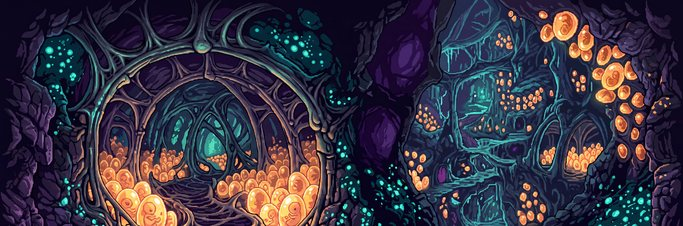
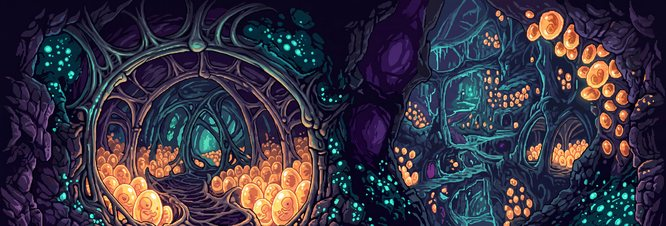
Stage select; fix Marina, Hatchery and Codebreak floors
- Lobby START opens a 4x3 stage select of the 12 Arcade stages; the run
  starts from the chosen stage. Guests see which stage the host is on.
- Thin floor bands (Marina pier, Hatchery ledge) are stacked into a deck
  instead of stretched; Codebreak gets a circuit-board floor from its shaft.

Claude-Session: https://claude.ai/code/session_01Cvrxa8cyQ4xMxVbh4qEa49

diff --git a/public/js/main.js b/public/js/main.js
@@ -9,7 +9,7 @@ const STEP = 1000 / 60;
 const app = {
   screen: 'loading', role: 'local', net: null, myId: 0, code: '', msg: '', msgT: 0,
   slots: [], sim: null, snap: null, prevSnap: null, snapAt: 0, snapGap: 33,
-  menu: 0, remoteIn: {}, guestNames: {}, lobbyDirty: true, paused: false, acc: 0, last: 0, sendTick: 0, pendingEv: [], t: 0,
+  menu: 0, stageSel: 0, remoteIn: {}, guestNames: {}, lobbyDirty: true, paused: false, acc: 0, last: 0, sendTick: 0, pendingEv: [], t: 0,
 };
 function defaultSlots() {
   return Array.from({ length: 6 }, (_, i) => ({ ctrl: 'cpu', owner: 0, dev: '', fid: i % M.fighters.length, weapon: i }));
@@ -84,7 +84,7 @@ function joinOnline(code, name) {
 function onGuestMessage(m) {
   if (m.t === 'joined') { app.myId = m.id; toast('Joined room ' + m.code + ' — press ATTACK to take a slot'); }
   else if (m.t === 'error') { toast(m.error); app.role = 'local'; app.screen = 'title'; app.net && app.net.close(); }
-  else if (m.t === 'lobby') { app.slots = m.slots; app.screen = 'lobby'; }
+  else if (m.t === 'lobby') { app.slots = m.slots; app.screen = 'lobby'; app.hostChoosing = m.choosing ? m.sel : null; }
   else if (m.t === 'snap') {
     app.prevSnap = app.snap; app.snap = m.s; const now = performance.now();
     app.snapGap = app.snapAt ? Math.min(100, Math.max(16, now - app.snapAt)) : 33; app.snapAt = now;
@@ -94,14 +94,14 @@ function onGuestMessage(m) {
 }
 function broadcastLobby() {
   if (app.role !== 'host' || !app.net || !app.net.open) return;
-  app.net.send({ t: 'lobby', slots: app.slots, code: app.code });
+  app.net.send({ t: 'lobby', slots: app.slots, code: app.code, choosing: app.screen === 'stages', sel: app.stageSel });
   app.lobbyDirty = false;
 }
 
 // ---------- game start / step ----------
 function startGame() {
   const cfg = app.slots.map((s, i) => ({ fid: s.fid, weapon: s.weapon, ctrl: s.ctrl, owner: s.owner, name: fname(s.fid) }));
-  app.sim = S.create(cfg, (Math.random() * 2 ** 31) | 0);
+  app.sim = S.create(cfg, (Math.random() * 2 ** 31) | 0, app.stageSel);
   app.screen = 'game'; app.paused = false; app.acc = 0;
   M.bosses.forEach((b, i) => { if (i < 2) R.bossImages(i); });
 }
@@ -150,8 +150,16 @@ function localDevicesInput() {
           if (p.u || p.d) cycle(i, 'weapon', p.d ? 1 : -1);
           if (p.j) releaseSlot(i);
         }
-        if (p.start) { startGame(); return; }
+        if (p.start) { app.screen = 'stages'; app.msgT = 0; app.lobbyDirty = true; A.play('menu'); return; }
       }
+    } else if (app.screen === 'stages') {
+      // Stage select: 4 x 3 grid of the twelve Sproto Arcade stages.
+      const sel = app.stageSel;
+      if (p.l) app.stageSel = (sel + 11) % 12; if (p.r) app.stageSel = (sel + 1) % 12;
+      if (p.u) app.stageSel = (sel + 8) % 12; if (p.d) app.stageSel = (sel + 4) % 12;
+      if (app.stageSel !== sel) { A.play('menu'); app.lobbyDirty = true; }
+      if (p.a || p.start) { startGame(); return; }
+      if (p.j) { app.screen = 'lobby'; app.lobbyDirty = true; return; }
     } else if (app.screen === 'game') {
       // Drop-in: any unassigned device presses ATTACK to take over a CPU Sproto.
       if (i < 0 && p.a) {
@@ -193,6 +201,7 @@ addEventListener('keydown', e => {
       else if (app.sim) S.toggleGod(app.sim);
     } else lastNine = e.timeStamp;
   } else if (!e.repeat) lastNine = -Infinity;
+  if (e.code === 'Escape' && app.screen === 'stages') { app.screen = 'lobby'; app.lobbyDirty = true; return; }
   if (e.code === 'Escape' && app.screen === 'lobby') { if (app.net) app.net.close(); app.net = null; app.role = 'local'; app.screen = 'title'; }
   if (e.code === 'KeyP' && app.screen === 'game' && app.role === 'local') app.paused = !app.paused;
   if (e.code === 'KeyM') A.toggle();
@@ -243,7 +252,33 @@ function drawLobby() {
     ? ['ATTACK: join a slot   LEFT/RIGHT: Sproto   UP/DOWN: weapon', 'Waiting for the host to start…']
     : ['ATTACK: join   LEFT/RIGHT: Sproto   UP/DOWN: weapon   JUMP: leave', 'START / ENTER: begin — empty slots are CPU Sprotos. ESC: back'];
   lines.forEach((l, k) => T(g, l, S.W / 2, 292 + k * 14, 6, '#c8c6e0', 'center'));
+  if (app.role === 'guest' && app.hostChoosing != null) {
+    g.fillStyle = 'rgba(0,0,0,.75)'; g.fillRect(0, 150, S.W, 40);
+    T(g, 'HOST IS CHOOSING: STAGE ' + (app.hostChoosing + 1) + ' · ' + M.bosses[app.hostChoosing].stage.toUpperCase(), S.W / 2, 170, 8, '#ffd23d', 'center');
+  }
   if (app.role === 'host' && app.code) T(g, 'Friends open this page, pick JOIN ONLINE and enter ' + app.code, S.W / 2, 332, 6, '#7aff8a', 'center');
+}
+function drawStages() {
+  R.drawBackground(g, app.stageSel, app.t * 0.4);
+  g.fillStyle = 'rgba(0,0,0,.6)'; g.fillRect(0, 0, S.W, S.H);
+  T(g, 'CHOOSE A STAGE', 12, 16, 12, '#ffd23d');
+  T(g, 'STAGE ' + (app.stageSel + 1) + ' OF 12', S.W - 12, 16, 8, '#c8c6e0', 'right');
+  const cw = 148, ch = 82;
+  for (let i = 0; i < 12; i++) {
+    const c = i % 4, r = Math.floor(i / 4), x = 8 + c * (cw + 8), y = 34 + r * (ch + 8), on = i === app.stageSel;
+    const back = R.img('assets/stages/' + String(i + 1).padStart(2, '0') + '-back.jpg');
+    g.fillStyle = '#000'; g.fillRect(x, y, cw, ch);
+    if (R.ready(back)) { const sh = back.height, sw = Math.min(back.width, sh * (cw / 62)); g.drawImage(back, 0, 0, sw, sh, x, y, cw, 62); }
+    g.fillStyle = on ? 'rgba(0,0,0,.25)' : 'rgba(0,0,0,.55)'; g.fillRect(x, y, cw, ch);
+    g.fillStyle = 'rgba(8,6,16,.9)'; g.fillRect(x, y + 62, cw, 20);
+    T(g, String(i + 1), x + 6, y + 10, 8, on ? '#ffd23d' : '#fff');
+    T(g, M.bosses[i].stage, x + 6, y + 72, M.bosses[i].stage.length > 17 ? 5 : 6, on ? '#ffd23d' : '#e8e6f8');
+    g.strokeStyle = on ? (Math.floor(app.t / 10) % 2 ? '#ffd23d' : '#fff') : 'rgba(255,255,255,.18)'; g.lineWidth = on ? 3 : 1;
+    g.strokeRect(x + 0.5, y + 0.5, cw - 1, ch - 1);
+  }
+  const b = M.bosses[app.stageSel];
+  T(g, 'BOSS: ' + b.machines[0].toUpperCase() + '  >  ' + b.machines[1].toUpperCase(), S.W / 2, 318, 8, '#ff8a8a', 'center');
+  T(g, 'ARROWS / STICK: choose   ATTACK / START: fight   JUMP / ESC: back to lobby', S.W / 2, 340, 6, '#c8c6e0', 'center');
 }
 function lerpSnap(a, b, k) {
   if (!a || k >= 1) return b;
@@ -285,13 +320,14 @@ function frame(now) {
     const inp = {}; for (const s of app.slots) if (s.ctrl === 'remote' && s.owner === app.myId) inp[s.dev] = I.pack(I.read(s.dev));
     app.net.send({ t: 'in', inp });
   }
-  if (app.screen === 'lobby' && app.role === 'host' && (app.lobbyDirty || app.t % 60 === 0)) broadcastLobby();
+  if ((app.screen === 'lobby' || app.screen === 'stages') && app.role === 'host' && (app.lobbyDirty || app.t % 60 === 0)) broadcastLobby();
 
   g.setTransform(1, 0, 0, 1, 0, 0); g.imageSmoothingEnabled = false;
   g.fillStyle = '#000'; g.fillRect(0, 0, S.W, S.H);
   if (app.screen === 'loading') { T(g, 'LOADING SPROTOS…', S.W / 2, S.H / 2, 10, '#fff', 'center'); g.fillStyle = '#ffd23d'; g.fillRect(170, S.H / 2 + 16, 300 * (app.loadK || 0), 6); }
   else if (app.screen === 'title' || app.screen === 'join') drawTitle();
   else if (app.screen === 'lobby') drawLobby();
+  else if (app.screen === 'stages') drawStages();
   else if (app.screen === 'game') drawGame();
   if (app.msgT > 0) { app.msgT--; g.fillStyle = 'rgba(0,0,0,.7)'; g.fillRect(0, S.H - 52, S.W, 16); T(g, app.msg, S.W / 2, S.H - 44, 6, '#fff', 'center'); }
 }

diff --git a/public/js/render.js b/public/js/render.js
@@ -17,7 +17,7 @@ const ready = im => im && im.complete && im.naturalWidth > 0;
 function preload(onProgress) {
   const list = [];
   for (const f of M.fighters) { for (let i = 0; i < 32; i++) list.push(`assets/fighters/${f.id}/${String(i).padStart(2, '0')}.png`); for (let i = 0; i < 8; i++) list.push(`assets/fighters/${f.id}/w0${i}.png`); }
-  for (const n of ['01', '02']) { list.push(`assets/stages/${n}-back.jpg`); list.push(`assets/stages/${n}-floor.jpg`); }
+  for (const n of ['01', '02', '03', '04', '05', '06', '07', '08', '09', '10', '11', '12']) { list.push(`assets/stages/${n}-back.jpg`); list.push(`assets/stages/${n}-floor.jpg`); }
   for (const n of ['cockpit-front', 'cockpit-rear', 'idle', 'laser', 'muzzle', 'beach-ball', 'shield1', 'shield2', 'shield3', 'shield4']) list.push(`assets/ufo/${n}.png`);
   let done = 0;
   return Promise.all(list.map(src => new Promise(res => { const im = img(src); const fin = () => { done++; onProgress && onProgress(done / list.length); res(); }; if (im.complete) fin(); else { im.onload = fin; im.onerror = fin; } })));

diff --git a/public/js/sim.js b/public/js/sim.js
@@ -65,13 +65,13 @@ function newPlayer(slot, cfg) {
   };
 }
 
-function create(slots, seed) {
+function create(slots, seed, firstStage) {
   const state = {
     t: 0, seed: seed >>> 0 || 1234567, mode: 'play', stageIdx: 0, stage: null, camX: 0, lockX: null,
     players: slots.map((c, i) => newPlayer(i, c)), enemies: [], projs: [], items: [], fx: [], boss: null,
     banner: null, events: [], nextId: 1, clearT: 0, totalScore: 0, god: false,
   };
-  startStage(state, 0);
+  startStage(state, Math.max(0, Math.min(11, firstStage | 0)));
   return state;
 }
 

diff --git a/tools/build-backgrounds.py b/tools/build-backgrounds.py
@@ -16,13 +16,15 @@ BACK_H, FLOOR_H = 226, 150
 # (source, floor line, floor end) as fractions of image height. The floor end skips the dark
 # borders some Arcade panoramas have below their walkable floor.
 SOURCES = [
-    ('art/level-01.jpg', .80, .95), ('art/level-02.jpg', .74, .87), ('art/level-03.jpg', .80, 1), ('art/level-04.jpg', .70, 1),
+    ('art/level-01.jpg', .885, .95), ('art/level-02.jpg', .74, .87), ('art/level-03.jpg', .80, 1), ('art/level-04.jpg', .70, 1),
     ('art/level-05.jpg', .72, 1), ('art/level-06.jpg', .82, .95), ('art/level-07.jpg', .80, .95), ('art/level-08.jpg', .80, 1),
-    ('art/level-09.jpg', .78, .95), ('art/level-10.jpg', .82, .93),
+    ('art/level-09.jpg', .80, .95), ('art/level-10.jpg', .82, .93),
     ('art/rooftop-chase/01.webp', .99, 1),  # sky chase with no floor: its floor comes from Neon Tomorrow's street
-    ('art/codebreak/shaft.webp', .80, 1),   # vertical shaft: its lowest screen is used
+    ('art/codebreak/shaft.webp', .55, 1),   # vertical shaft: its circuit waterfalls are the scenery
 ]
 FLOOR_FROM = {11: 5}
+# Floors whose source band is too thin to stretch: the band is scaled evenly and stacked into a deck.
+TILE_FLOOR = {1: (.888, .952), 9: (.806, .862)}
 def load(i):
     src, fl, fe = SOURCES[i - 1]
     im = Image.open(os.path.join(A, src)).convert('RGB')
@@ -37,7 +39,22 @@ for i in range(1, 13):
     fim, ffl, ffe = load(FLOOR_FROM.get(i, i))
     fw, fh = fim.size
     fs = BACK_H / int(fh * ffl)
-    floor = fim.crop((0, int(fh * ffl), fw, int(fh * ffe))).resize((round(fw * fs), FLOOR_H), Image.LANCZOS)
+    if i == 12:
+        # The shaft has no walkable floor: lay its gold circuit traces flat as a circuit-board deck.
+        full = Image.open(os.path.join(A, SOURCES[11][0])).convert('RGB')
+        strip = full.crop((200, full.height - 1100, 440, full.height - 600)).rotate(90, expand=True)
+        strip = strip.resize((round(strip.width * FLOOR_H / strip.height), FLOOR_H), Image.LANCZOS)
+        floor = Image.eval(strip, lambda v: int(v * 0.8))
+    elif i in TILE_FLOOR:
+        a, b = TILE_FLOOR[i]
+        band = fim.crop((0, int(fh * a), fw, int(fh * b)))
+        bw = round(fw * fs * 1.6); band = band.resize((bw, round(band.height * bw / fw)), Image.LANCZOS)
+        floor = Image.new('RGB', (bw, FLOOR_H))
+        for k, y in enumerate(range(0, FLOOR_H, band.height)):
+            row = band if k % 2 == 0 else band.transpose(Image.FLIP_LEFT_RIGHT)  # vary the seams
+            floor.paste(row, (0, y))
+    else:
+        floor = fim.crop((0, int(fh * ffl), fw, int(fh * ffe))).resize((round(fw * fs), FLOOR_H), Image.LANCZOS)
     back.save(f'{O}{i:02d}-back.jpg', quality=84)
     floor.save(f'{O}{i:02d}-floor.jpg', quality=84)
     print(i, back.size, floor.size)

diff --git a/README.md b/README.md
@@ -25,7 +25,7 @@ npm start            # http://localhost:8080
 | Keys 2 | Arrows | `,` / K / Num1 | `.` / L / Num2 | `/` / ; / Num3 |
 | Gamepad | Stick / D-pad | X (or RB) | A | B / Y |
 
-Start / Enter begins the game from the lobby. In the lobby, LEFT/RIGHT changes your Sproto, UP/DOWN changes your weapon and JUMP leaves the slot. P pauses local games and M mutes sound.
+Start / Enter in the lobby opens the **stage select**: pick any of the 12 Sproto Arcade stages with the arrows or stick, then Attack or Start to fight. The run continues from that stage. Jump or Esc goes back to the lobby. In the lobby, LEFT/RIGHT changes your Sproto, UP/DOWN changes your weapon and JUMP leaves the slot. P pauses local games and M mutes sound.
 
 **God mode:** press **9 twice** quickly during a battle, the same input as Sproto Arcade. Human Sprotos get unlimited health and attack twice as fast (UFO lasers and bombs too). CPU teammates are unaffected. Press 9 twice again to turn it off. Online guests can toggle it too, and it applies to the whole team.
 
